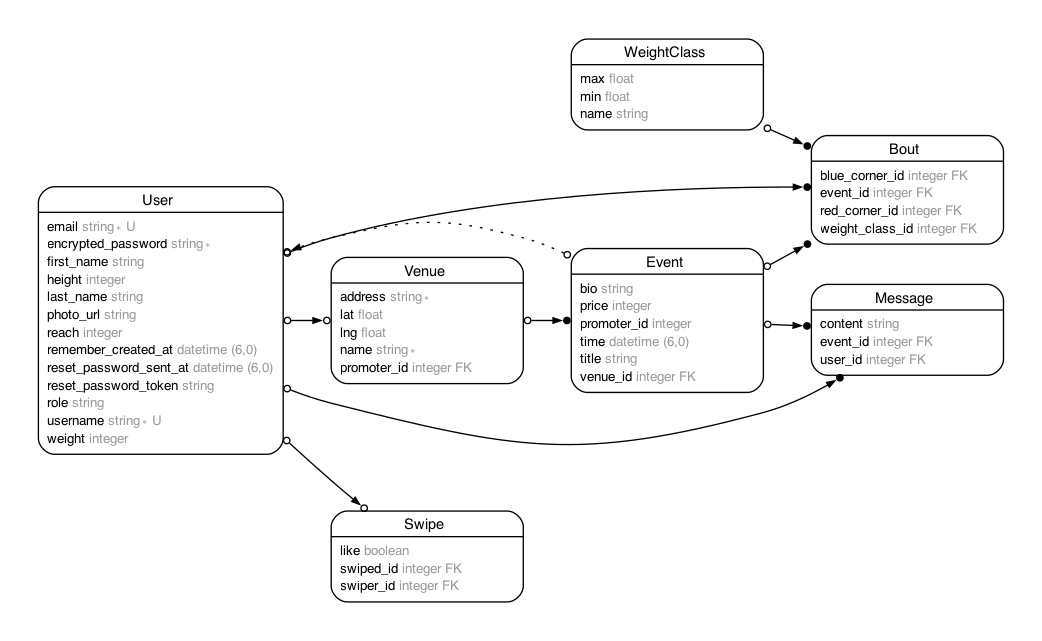
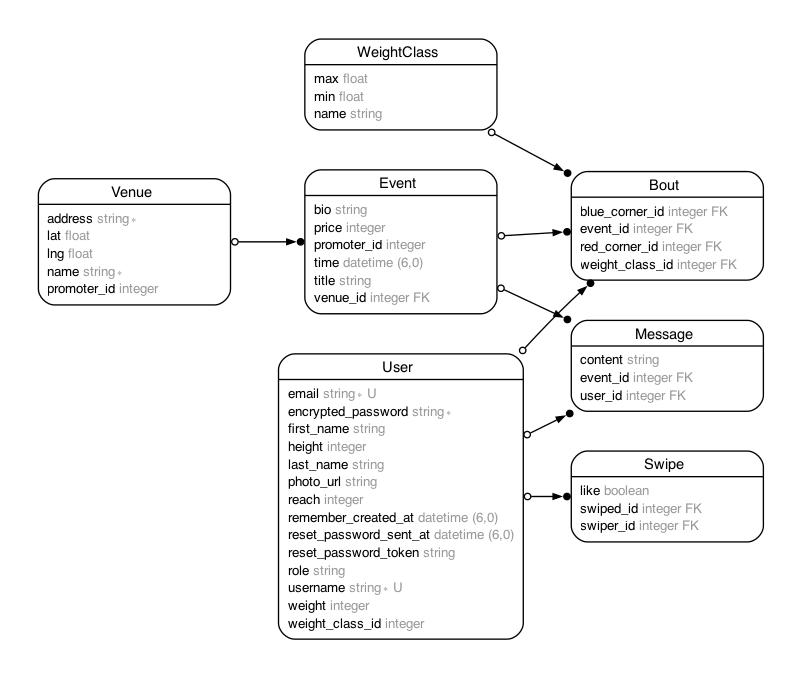
Add weight_class column

diff --git a/app/models/user.rb b/app/models/user.rb
@@ -18,6 +18,7 @@
 #  weight                 :integer
 #  created_at             :datetime         not null
 #  updated_at             :datetime         not null
+#  weight_class_id        :integer
 #
 # Indexes
 #
@@ -31,10 +32,12 @@ class User < ApplicationRecord
          :recoverable, :rememberable, :validatable
 
   validates :username, presence: true, uniqueness: true
+  before_save :assign_weight_class
 
   #FOR FIGHTER
   has_many :bouts
   has_many :events, through: :bouts
+  belongs_to :weight_class, optional: true
 
   # Swipes relationships
   has_many :given_swipes, class_name: 'Swipe', foreign_key: 'swiper_id'
@@ -47,9 +50,6 @@ class User < ApplicationRecord
   
   enum role: {admin: "admin", fighter: "fighter", promoter: "promoter", undetermined: "undetermined"}
 
-  def weight_class
-    return WeightClass.where('min <= :weight AND max >= :weight', weight: self.weight).at(0)
-  end
 
   def users_not_swiped_on
     User.where.not(id: self.id)
@@ -62,6 +62,10 @@ class User < ApplicationRecord
   
   def stack
     return self.weight_class.unmatched_bouts
+  end
+
+  def assign_weight_class
+    self.weight_class = WeightClass.where('min <= :weight AND max >= :weight', weight: self.weight).first
   end
 
   def swiped_user_ids

diff --git a/db/schema.rb b/db/schema.rb
@@ -10,7 +10,7 @@
 #
 # It's strongly recommended that you check this file into your version control system.
 
-ActiveRecord::Schema[7.0].define(version: 2023_11_15_211122) do
+ActiveRecord::Schema[7.0].define(version: 2023_11_16_181920) do
   create_table "bouts", force: :cascade do |t|
     t.integer "red_corner_id"
     t.integer "blue_corner_id"
@@ -63,6 +63,7 @@ ActiveRecord::Schema[7.0].define(version: 2023_11_15_211122) do
     t.datetime "updated_at", null: false
     t.string "username"
     t.string "role"
+    t.integer "weight_class_id"
     t.index ["email"], name: "index_users_on_email", unique: true
     t.index ["reset_password_token"], name: "index_users_on_reset_password_token", unique: true
   end

diff --git a/db/migrate/20231116181920_add_weight_class_to_users.rb b/db/migrate/20231116181920_add_weight_class_to_users.rb
@@ -1,0 +1,5 @@
+class AddWeightClassToUsers < ActiveRecord::Migration[7.0]
+  def change
+    add_column :users, :weight_class_id, :integer
+  end
+end
